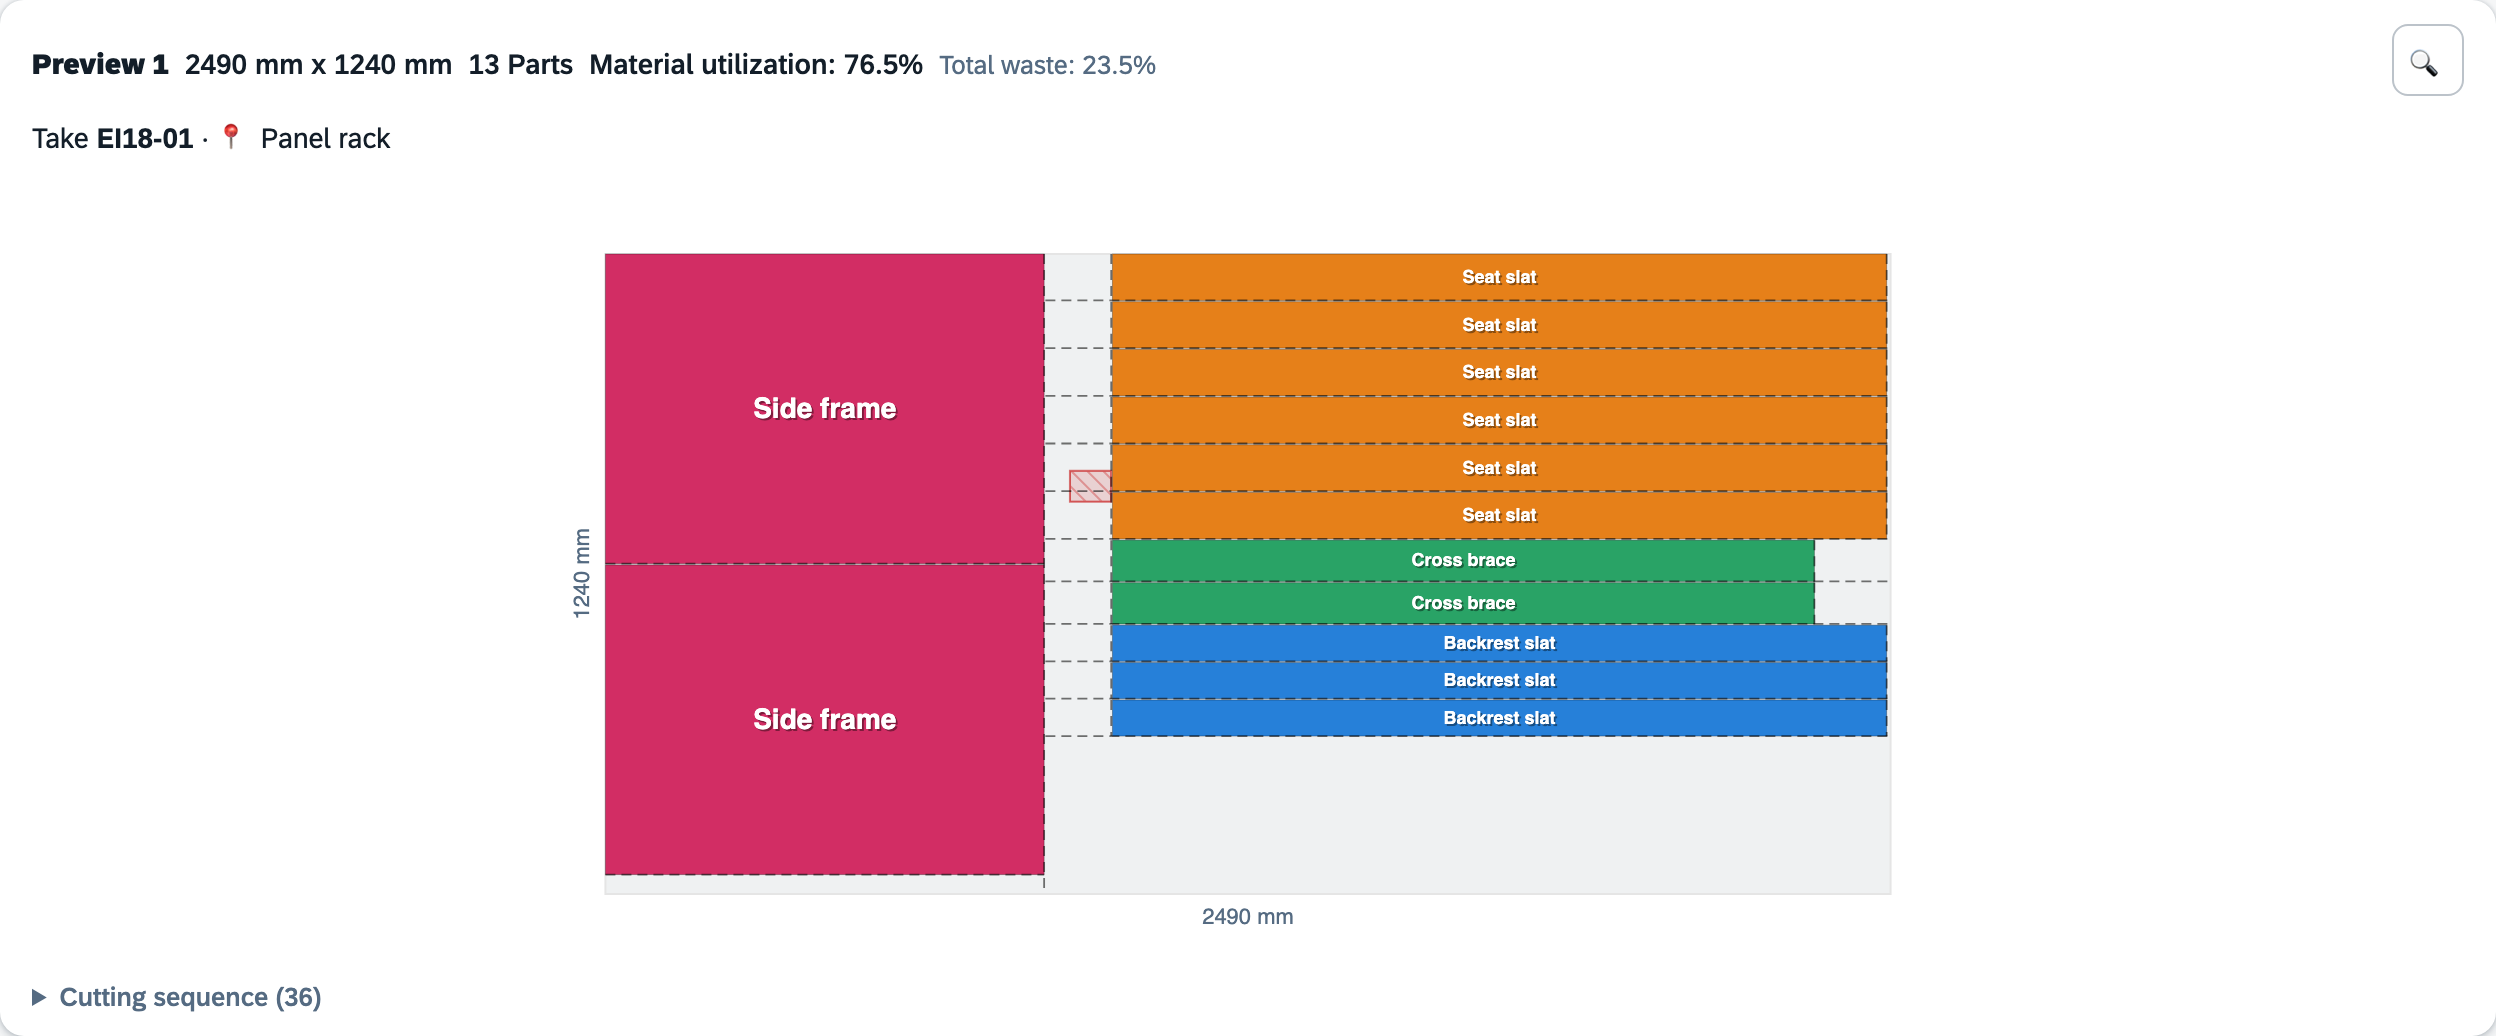
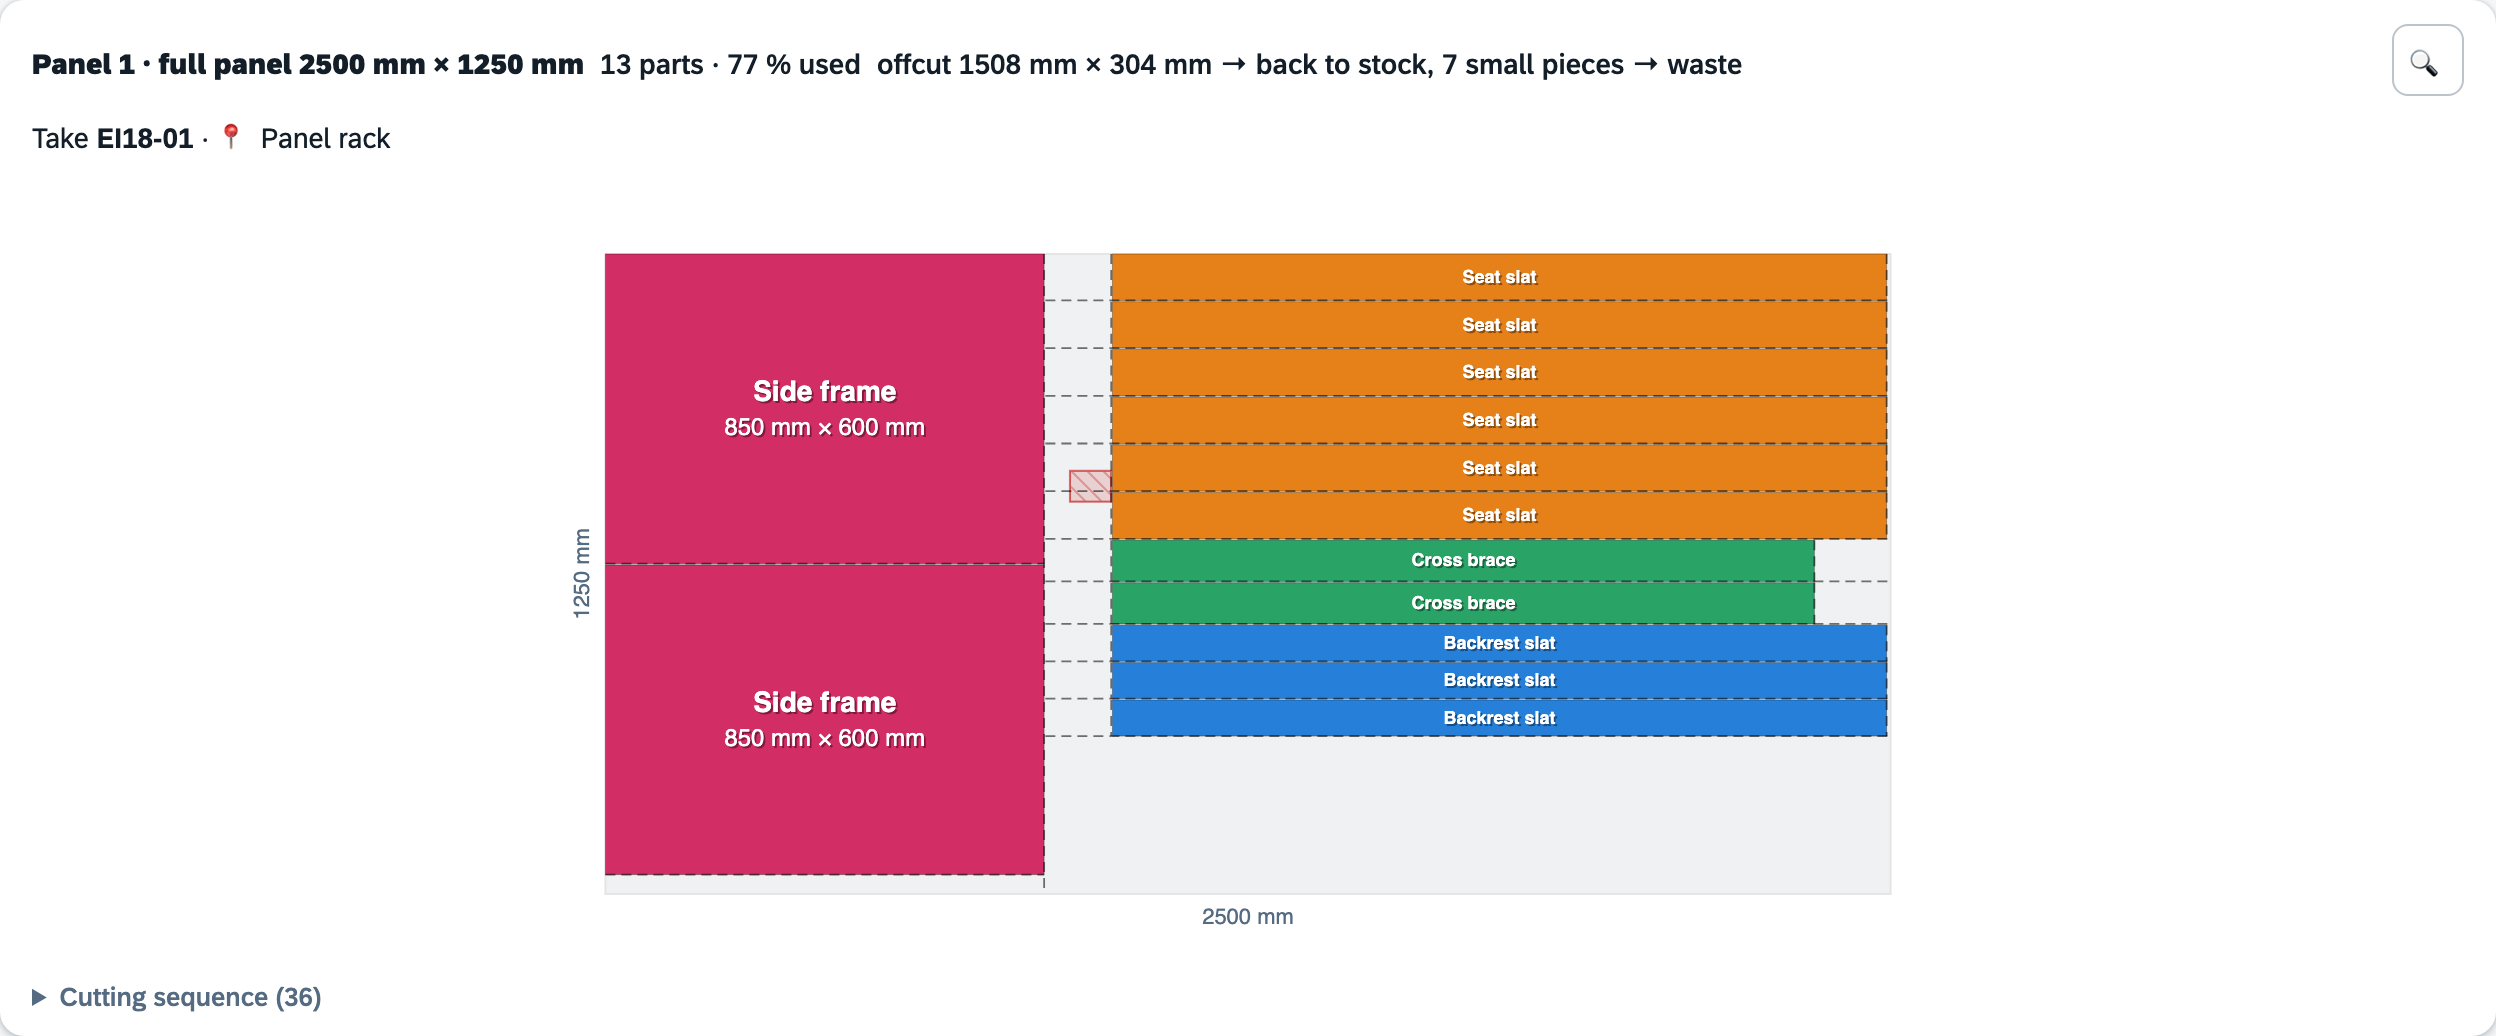
Doku: Teile und Schnittlisten, Sammelplan, Regal-Korrektur
Neue Screenshots fuer den Reiter Teile und den Sammelplan (DE/EN),
alle anderen neu aufgenommen. READMEs um Schnittlisten und die
Regal-Korrektur ergaenzt.

Changed region(s): [[0.0312, 0.0309, 0.6875, 0.0927], [0.2812, 0.6486, 0.375, 0.7413], [0.2812, 0.3707, 0.375, 0.4324]]

diff --git a/docs/make_screenshots.py b/docs/make_screenshots.py
@@ -74,6 +74,9 @@ EN = {
     "Hocker Kiefer": "Pine stool",
     "Hockerbein": "Stool leg",
     "Zarge": "Apron",
+    "Schuhregal Buche": "Beech shoe rack",
+    "Regalleiste": "Shelf batten",
+    "Stütze": "Support",
 }
 
 
@@ -228,10 +231,28 @@ def seed_demo_data() -> dict:
             "laenge": l, "breite": 0, "stueckzahl": n,
             "gesaegt_anzahl": 0, "maserung": "egal"})
 
+    # Second project on the beech battens: shares the material with the
+    # wardrobe → Sammelplan screenshot (one plan for both projects)
+    schuh = api("POST", "/api/projects", {"name": tr("Schuhregal Buche")})
+    for label, l, n in [("Regalleiste", 760, 6), ("Stütze", 400, 4)]:
+        api("POST", f"/api/projects/{schuh['id']}/parts", {
+            "label": tr(label), "typ": S, "material_id": leiste["id"],
+            "laenge": l, "breite": 0, "stueckzahl": n,
+            "gesaegt_anzahl": 0, "maserung": "egal"})
+
+    # Two finished stool aprons already on the shelf (Teile tab, column "Regal")
+    zarge = next(t for t in api("GET", f"/api/projects/{hocker['id']}/parts")
+                 if t["label"] == tr("Zarge"))
+    api("PUT", f"/api/parts/{zarge['id']}", {
+        **{k: zarge[k] for k in ("label", "typ", "material_id", "laenge", "breite",
+                                 "stueckzahl", "gesaegt_anzahl", "maserung")},
+        "vorrat": 2})
+
     # Light theme + UI language + mm for consistent screenshots
     api("PUT", "/api/settings", {"language": LANG, "theme": "light", "unit": "mm"})
 
     return {"span": span["id"], "eiche": eiche["id"], "kiefer": kiefer["id"],
+            "leiste": leiste["id"], "schuh": schuh["id"],
             "schrank": schrank["id"], "bank": bank["id"], "regal": regal["id"],
             "span_stock": span_stock}
 
@@ -366,6 +387,43 @@ def shoot(ids: dict):
         hide_toasts(page)
         page.locator(".cut-plan-card").first.screenshot(
             path=shot("defekt"))
+
+        # 7b) Sammelplan: Buchenleisten für Kleiderschrank + Schuhregal
+        # gemeinsam, mit Vergleich getrennt/gemeinsam und Projektfarben
+        page.set_viewport_size({"width": 1280, "height": 1000})
+        page.select_option("#opt-mode", "material")
+        page.wait_for_timeout(400)
+        page.select_option("#opt-material", str(ids["leiste"]))
+        page.wait_for_selector(f'#sammel-panel tr[data-pid="{ids["schuh"]}"]')
+        for pid in (ids["schrank"], ids["schuh"]):
+            box = page.locator(f'#sammel-panel tr[data-pid="{pid}"] .sammel-check')
+            if not box.is_checked():
+                box.check()
+        page.click("#btn-sammel-compare")
+        page.wait_for_selector("#sammel-compare .sammel-note")
+        page.click("#btn-optimize")
+        page.wait_for_selector(".cut-plan-canvas", timeout=30000)
+        page.wait_for_timeout(1000)
+        hide_toasts(page)
+        page.evaluate("window.scrollTo(0, 0)")
+        page.wait_for_timeout(300)
+        page.screenshot(path=shot("sammelplan"))
+        page.select_option("#opt-mode", "project")
+        page.wait_for_timeout(400)
+
+        # 7c) Reiter Teile: Teile aller Projekte, zwei Hocker-Teile angehakt
+        # (Schnittliste / Als Füllteile), Spalte "Regal" mit Vorrat
+        page.set_viewport_size({"width": 1280, "height": 860})
+        page.click('.tab-btn[data-tab="parts"]')
+        page.wait_for_selector("#all-parts-table tbody tr[data-teil]")
+        page.select_option("#parts-material", str(ids["kiefer"]))
+        page.wait_for_timeout(400)
+        for label in ("Hockerbein", "Zarge"):
+            page.check(f'#all-parts-table tbody tr:has-text("{tr(label)}") .parts-check')
+        page.evaluate("window.scrollTo(0, 0)")
+        page.wait_for_timeout(300)
+        page.mouse.move(1270, 850)
+        page.screenshot(path=shot("teile"))
 
         # 8) Einstellungen (ganze Seite inkl. Etiketten + Tastenkürzel)
         page.click('.tab-btn[data-tab="settings"]')

diff --git a/README.de.md b/README.de.md
@@ -27,6 +27,7 @@ CutStock gibt es in zwei Varianten, die denselben Optimierungskern teilen:
 - **Reste zuerst** -- auf Wunsch erst nur Reste verplanen, dann ganze Stangen/Platten
 - **Sammelplan** -- ein Material fuer mehrere Projekte gemeinsam optimieren ("Optimieren nach: Material"), mit Vergleich getrennt/gemeinsam; gesaegte Teile zaehlen direkt im jeweiligen Projekt
 - **Fuellteile** -- Teile anderer Projekte mitsaegen, um den Abfall von Stangen und Platten aufzufuellen (ohne zusaetzliches Material); gesaegte Fuellteile kommen in den Teile-Vorrat ("Regal") und werden spaeter vom anderen Projekt uebernommen
+- **Teile und Schnittlisten** -- Reiter "Teile" mit den Teilen aller Projekte; ausgewaehlte Teile als eigene Schnittliste saegen oder als Fuellteile mitnehmen; Regal-Vorrat je Teil, von Hand korrigierbar
 - **Projektverwaltung** -- Teile nach Projekten organisieren, Projekt mehrfach bauen (Anzahl Exemplare), Import/Export als JSON, Teilelisten-Import aus CSV
 - **Visuelle Schnittplaene** -- farbkodierte Zuschnittschemata mit Labels und Massen
 - **Schnittfolge** -- nummerierte, massgenaue Schrittliste pro Schnittplan (Kerf eingerechnet, auch im PDF)
@@ -138,9 +139,15 @@ Bleibt am Ende einer Stange oder auf einer Platte Abfall, kann CutStock ihn mit 
 
 Wird dasselbe Material in mehreren Projekten gebraucht, kann man es gemeinsam optimieren: Im Optimierungs-Tab "Optimieren nach: Material (Sammelplan)" waehlen, Material auswaehlen und die Projekte anhaken. "Vergleichen" zeigt, wie viel Material das gegenueber getrennten Plaenen spart. Im Plan steht bei jedem Teil sein Projekt ("Seite → Regal"); abgehakte Teile zaehlen als Fortschritt dieses Projekts. Nicht angefangene Einzelplaene der Projekte werden ersetzt; Teile, die ungesaegt in einem angefangenen Plan liegen, bleiben dort. Jedes Projekt bekommt im Plan eine eigene Farbe (Legende mit Stueckzahl in der Statistik), das PDF listet die Teile nach Projekt gruppiert, und im Projekte-Tab markiert ein Hinweis "Sammelplan" die beteiligten Projekte.
 
+![Sammelplan](docs/screenshot_sammelplan.png)
+
 ### Teile und Schnittlisten
 
 Der Reiter "Teile" zeigt die Teile aller Projekte, filterbar nach Material und Projekt, mit offener Stueckzahl und Regal-Vorrat. Teile anhaken, Menge eintragen und "Schnittliste erstellen": Es entsteht eine Schnittliste, die im Projekte-Tab erscheint und wie ein Projekt optimiert, gesaegt und gedruckt wird. Abgehakte Teile kommen ins Regal (Vorrat) ihres Herkunftsprojekts, das sie spaeter per Klick uebernimmt. Ist alles gesaegt, bietet CutStock an, die Liste zu loeschen. Beim Duplizieren bleibt eine Schnittliste eine Schnittliste.
+
+Der Regal-Vorrat eines Teils laesst sich im Dialog "Teil bearbeiten" auch von Hand korrigieren ("Im Regal"), etwa nach einer Inventur.
+
+![Teile](docs/screenshot_teile.png)
 
 Die Kopfzeile jedes Plans sagt, was man in der Hand hat: "Stange 2 · Rest 960 mm" bzw. "Platte 1 · ganze Platte 2800 × 2070 mm", wie viele Teile darauf liegen und was uebrig bleibt (zurueck ins Lager oder Abfall). In der Zeichnung steht bei jedem Teil sein Name und seine Masse.
 
@@ -252,7 +259,7 @@ Anfragen von der eigenen Web-Oberflaeche (Same-Origin) und von localhost sind im
 | **Teile** | | |
 | GET | `/api/projects/{id}/parts` | Teile eines Projekts auflisten |
 | POST | `/api/projects/{id}/parts` | Teil hinzufuegen |
-| PUT | `/api/parts/{id}` | Teil aktualisieren |
+| PUT | `/api/parts/{id}` | Teil aktualisieren (optional `vorrat`: Regal-Bestand setzen) |
 | DELETE | `/api/parts/{id}` | Teil loeschen |
 | **Optimierung und Plaene** | | |
 | POST | `/api/optimize` | Optimieren und als Plan des Projekts fuer das Material speichern |

diff --git a/README.md b/README.md
@@ -27,6 +27,7 @@ CutStock comes in two flavors that share the same optimization core:
 - **Remnants First** -- optionally plan remnants first, then full bars/panels
 - **Combined Plan** -- optimize one material for several projects at once ("Optimize by: Material"), with a separate/combined comparison; cut parts count directly in their project
 - **Filler Parts** -- cut parts from other projects to fill up the waste of bars and panels (no extra material); cut filler parts go into the part stock ("shelf") and are taken over by the other project later
+- **Parts and Cut Lists** -- "Parts" tab with the parts of all projects; cut selected parts as their own cut list or take them along as filler parts; shelf stock per part, correctable by hand
 - **Project Management** -- organize parts by project, build a project several times (number of copies), import/export as JSON, import part lists from CSV
 - **Visual Cut Plans** -- color-coded cutting diagrams with labels and dimensions
 - **Cutting Sequence** -- numbered, kerf-accurate step-by-step sawing order per cut plan (on screen and in the PDF)
@@ -137,9 +138,15 @@ If waste remains at the end of a bar or on a panel, CutStock can fill it with pa
 
 If the same material is used in several projects, it can be optimized together: in the Optimization tab choose "Optimize by: Material (combined plan)", select the material and tick the projects. "Compare" shows how much material this saves over separate plans. Each part in the plan shows its project ("Side → Shelf"); ticked parts count as progress of that project. Unstarted single plans of these projects are replaced; parts lying uncut in a started plan stay there. Each project gets its own colour in the plan (legend with piece counts in the statistics), the PDF lists parts grouped by project, and the Projects tab marks participating projects with a "Combined plan" badge.
 
+![Combined Plan](docs/screenshot_sammelplan_en.png)
+
 ### Parts and Cut Lists
 
 The "Parts" tab shows the parts of all projects, filterable by material and project, with open quantity and shelf stock. Tick parts, enter a quantity and click "Create cut list": the list appears in the Projects tab and is optimized, cut and printed like a project. Ticked-off parts go to the shelf (stock) of the project they come from, which can take them over later with one click. Once everything is cut, CutStock offers to delete the list. Duplicating a cut list keeps it a cut list.
+
+A part's shelf stock can also be corrected by hand in the "Edit part" dialog ("On the shelf"), e.g. after a stock check.
+
+![Parts](docs/screenshot_teile_en.png)
 
 Each plan's header tells you what you are holding: "Bar 2 · offcut 960 mm" or "Panel 1 · full panel 2800 × 2070 mm", how many parts are on it and what is left over (back to stock or waste). The drawing shows each part's name and size.
 
@@ -251,7 +258,7 @@ Requests from the web UI (same-origin) and from localhost are always allowed wit
 | **Parts** | | |
 | GET | `/api/projects/{id}/parts` | List parts of a project |
 | POST | `/api/projects/{id}/parts` | Add a part |
-| PUT | `/api/parts/{id}` | Update a part |
+| PUT | `/api/parts/{id}` | Update a part (optional `vorrat`: set shelf stock) |
 | DELETE | `/api/parts/{id}` | Delete a part |
 | **Optimization and Plans** | | |
 | POST | `/api/optimize` | Optimize and save as the project's plan for the material |
